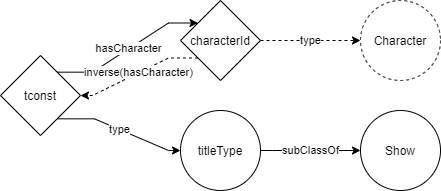
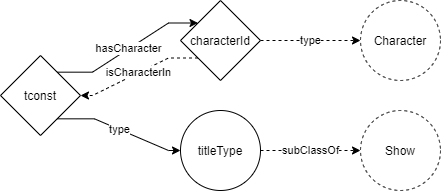
Update inference documentation

diff --git a/ontology/INFERENCES.md b/ontology/INFERENCES.md
@@ -1,0 +1,208 @@
+- [Inferences](#inferences)
+  - [Properties](#properties)
+    - [directs](#directs)
+    - [hasActor](#hasactor)
+    - [hasCharacter](#hascharacter)
+    - [hasDirector](#hasdirector)
+    - [hasLocation](#haslocation)
+    - [hasScene](#hasscene)
+    - [isCharacterIn](#ischaracterin)
+    - [isGenre](#isgenre)
+    - [isGenreOf](#isgenreof)
+    - [isLocationOf](#islocationof)
+- [isSceneOf](#issceneof)
+    - [playsIn](#playsin)
+  - [Classes](#classes)
+    - [Actor](#actor)
+    - [Character](#character)
+    - [Director](#director)
+    - [Scene](#scene)
+    - [Location](#location)
+    - [Genre](#genre)
+  - [Overview](#overview)
+
+# Inferences
+
+## Properties
+
+### directs
+
+```
+ObjectProperty: ml:directs
+    InverseOf: 
+        ml:hasDirector
+ ``` 
+
+### hasActor
+
+```
+ObjectProperty: ml:hasActor
+    SubPropertyChain: 
+        ml:hasCharacter o ml:playedBy
+    InverseOf: 
+        ml:playsIn
+```
+
+![actor](images/inferences/hasActor.png)
+
+### hasCharacter
+
+``` 
+ObjectProperty: ml:hasCharacter
+    InverseOf: 
+        ml:isCharacterIn
+```
+
+### hasDirector
+
+```    
+ObjectProperty: ml:hasDirector
+    InverseOf: 
+        ml:directs
+```
+
+### hasLocation
+
+```    
+ObjectProperty: ml:hasLocation
+    SubPropertyChain: 
+        ml:hasScene o ml:hasLocation
+    InverseOf: 
+        ml:isLocationOf
+```
+
+### hasScene
+
+```    
+ObjectProperty: ml:hasScene
+    InverseOf: 
+        ml:isSceneOf
+```
+
+### isCharacterIn
+
+```    
+ObjectProperty: ml:isCharacterIn
+    InverseOf: 
+        ml:hasCharacter
+```
+
+### isGenre
+
+```    
+ObjectProperty: ml:isGenre
+    InverseOf: 
+        ml:isGenreOf
+```
+
+### isGenreOf
+
+```    
+ObjectProperty: ml:isGenreOf
+    InverseOf: 
+        ml:isGenre
+```
+
+### isLocationOf
+
+```
+ObjectProperty: ml:isLocationOf
+    InverseOf: 
+        ml:hasLocation
+```
+
+# isSceneOf
+
+```    
+ObjectProperty: ml:isSceneOf
+    InverseOf: 
+        ml:hasScene
+```
+
+### playsIn
+
+```    
+ObjectProperty: ml:playsIn
+    InverseOf: 
+        ml:hasActor
+```
+
+## Classes
+
+It's important to understand that all classes will be inferred knowledge. Except for the specific title/show. These will be the only individuals which are explicitly stated to be of a class.
+
+So every title will be an inidivual of one of the following classes:
+- Show
+  - Short
+    - TvShort
+  - Movie
+    - TvMovie
+  - Series
+    - TvSeries
+      - TvMiniSeries
+  - TvEpisode
+  - TvSpecial
+  - Video
+  - VideoGame
+
+
+### Actor
+
+```
+Class: ml:Actor
+    EquivalentTo: 
+        ml:playsIn some ml:Show
+```
+
+![Actor](images/inferences/actor.png)
+
+### Character
+
+```
+Class: ml:Character
+    EquivalentTo: 
+        ml:isCharacterIn some ml:Show
+```
+
+![Character](images/inferences/character.png)
+
+
+### Director
+
+```
+Class: ml:Director
+    EquivalentTo: 
+        ml:directs some ml:Show
+```
+
+### Scene
+
+```
+Class: ml:Scene
+    EquivalentTo: 
+        ml:isSceneOf some ml:Show
+
+```
+
+### Location
+
+```
+Class: ml:Location
+    EquivalentTo: 
+        ml:isLocationOf some ml:Show
+
+```
+
+### Genre
+
+```
+Class: ml:Genre
+    EquivalentTo: 
+        ml:isGenreOf some ml:Show
+```
+
+## Overview
+
+Overview of inferred knowledge. The dotted lines represent the inferred knowledge. The solid lines are explicit statements that are used to derive inference.
+
+![Overview](images/inferences/overview.png)

diff --git a/ontology/README.md b/ontology/README.md
@@ -10,15 +10,16 @@ Markdown documentation created by [pyLODE](http://github.com/rdflib/pyLODE) 2.8.
 
 ## Table of Contents
 1. [Classes](#classes)
-1. [Object Properties](#objectproperties)
-1. [Datatype Properties](#datatypeproperties)
+1. [Object Properties](#object-properties)
+1. [Datatype Properties](#datatype-properties)
 1. [Namespaces](#namespaces)
 1. [Legend](#legend)
 
 
 ## Overview
-
+![Overview](images/inferences/overview.png)
 **Figure 1:** Ontology overview
+
 ## Classes
 [Actor](#Actor),
 [Character](#Character),
